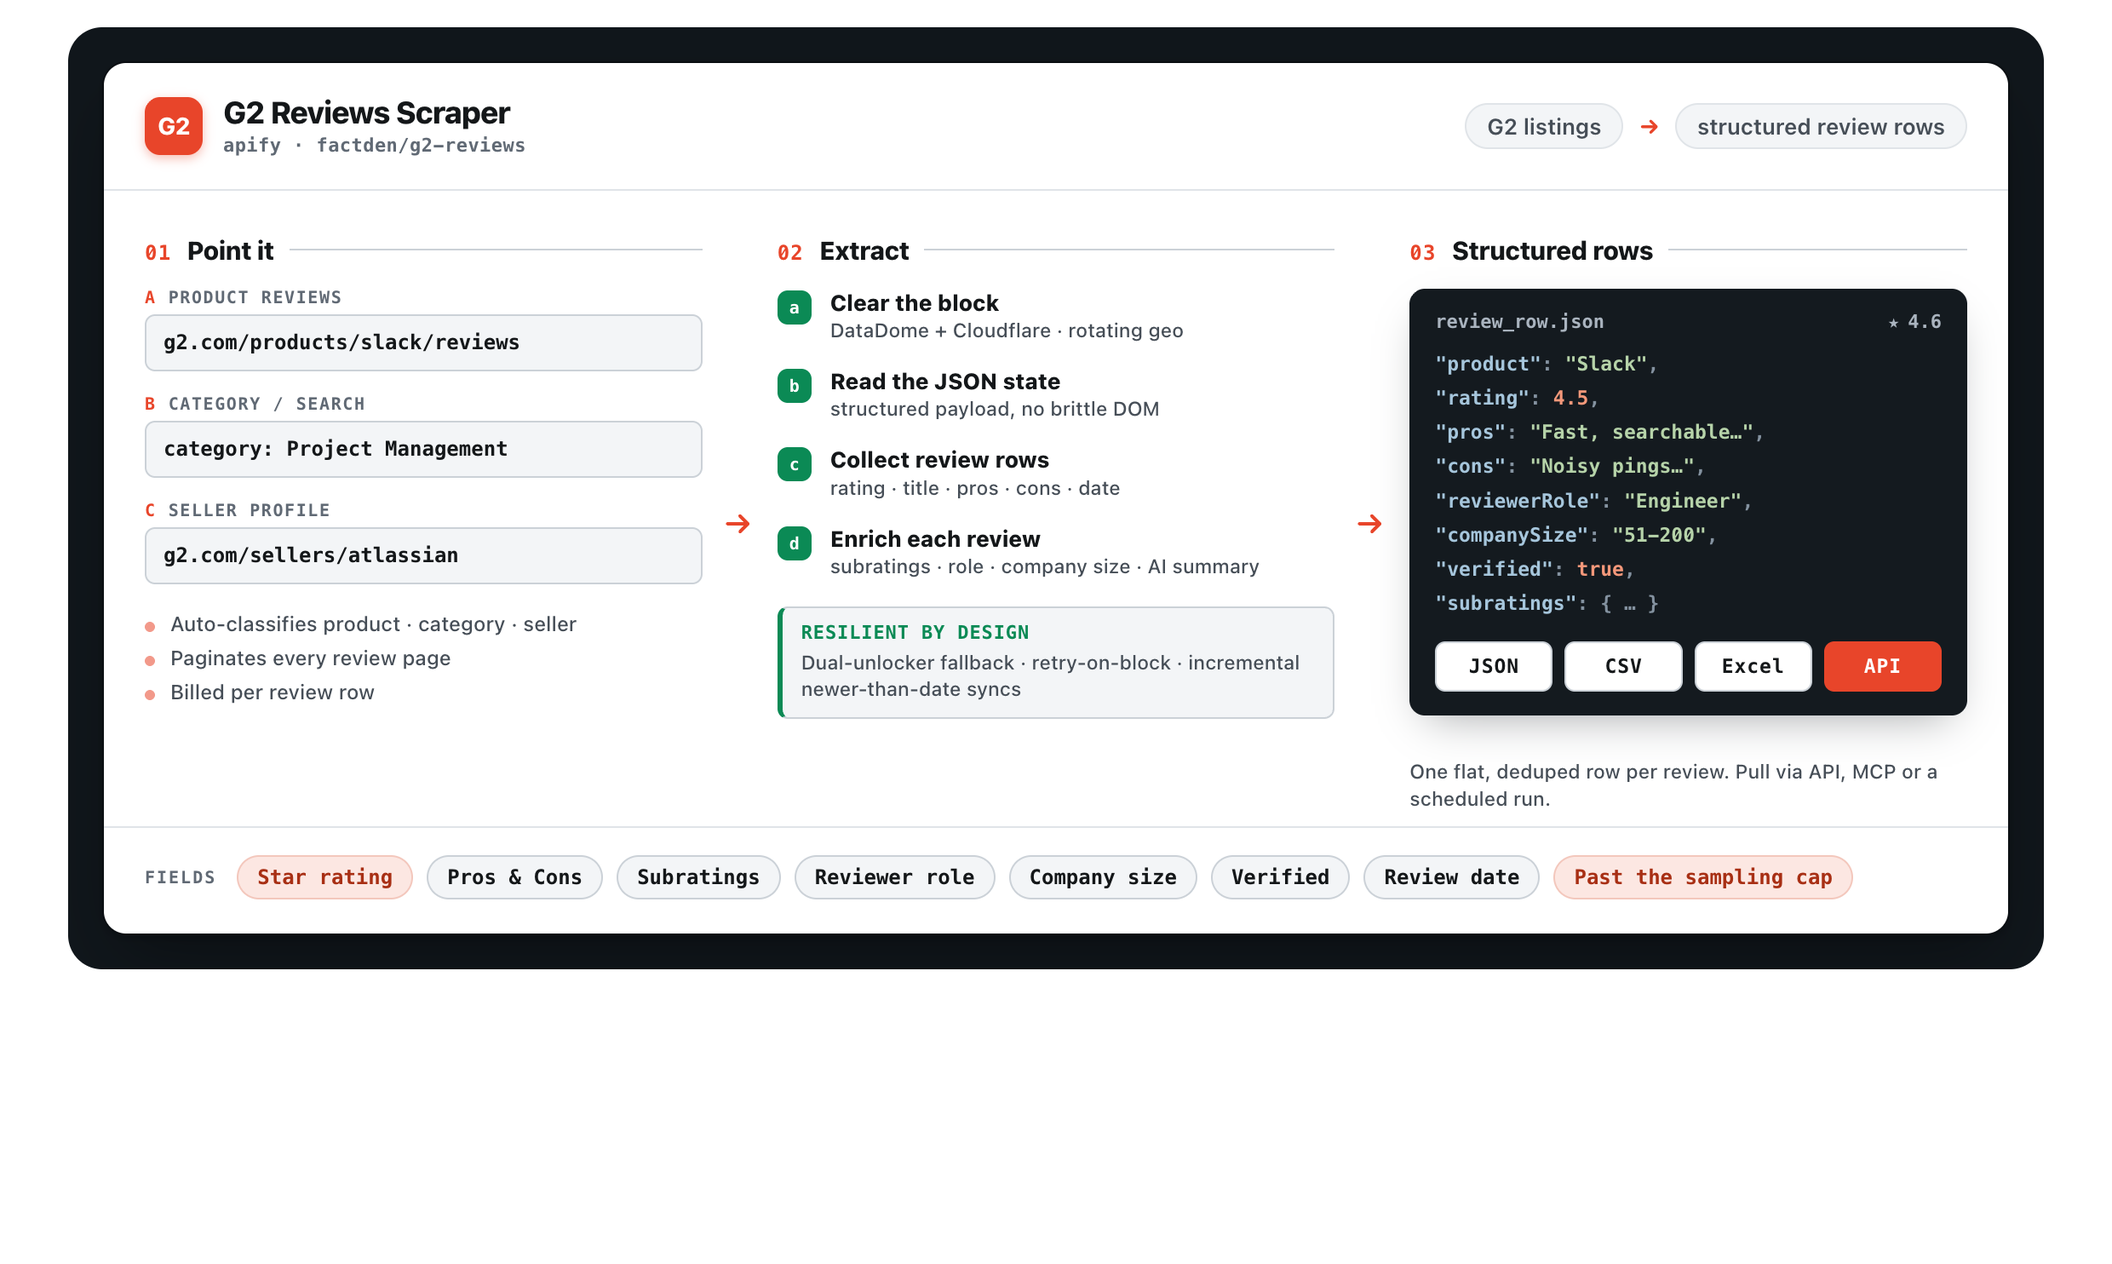
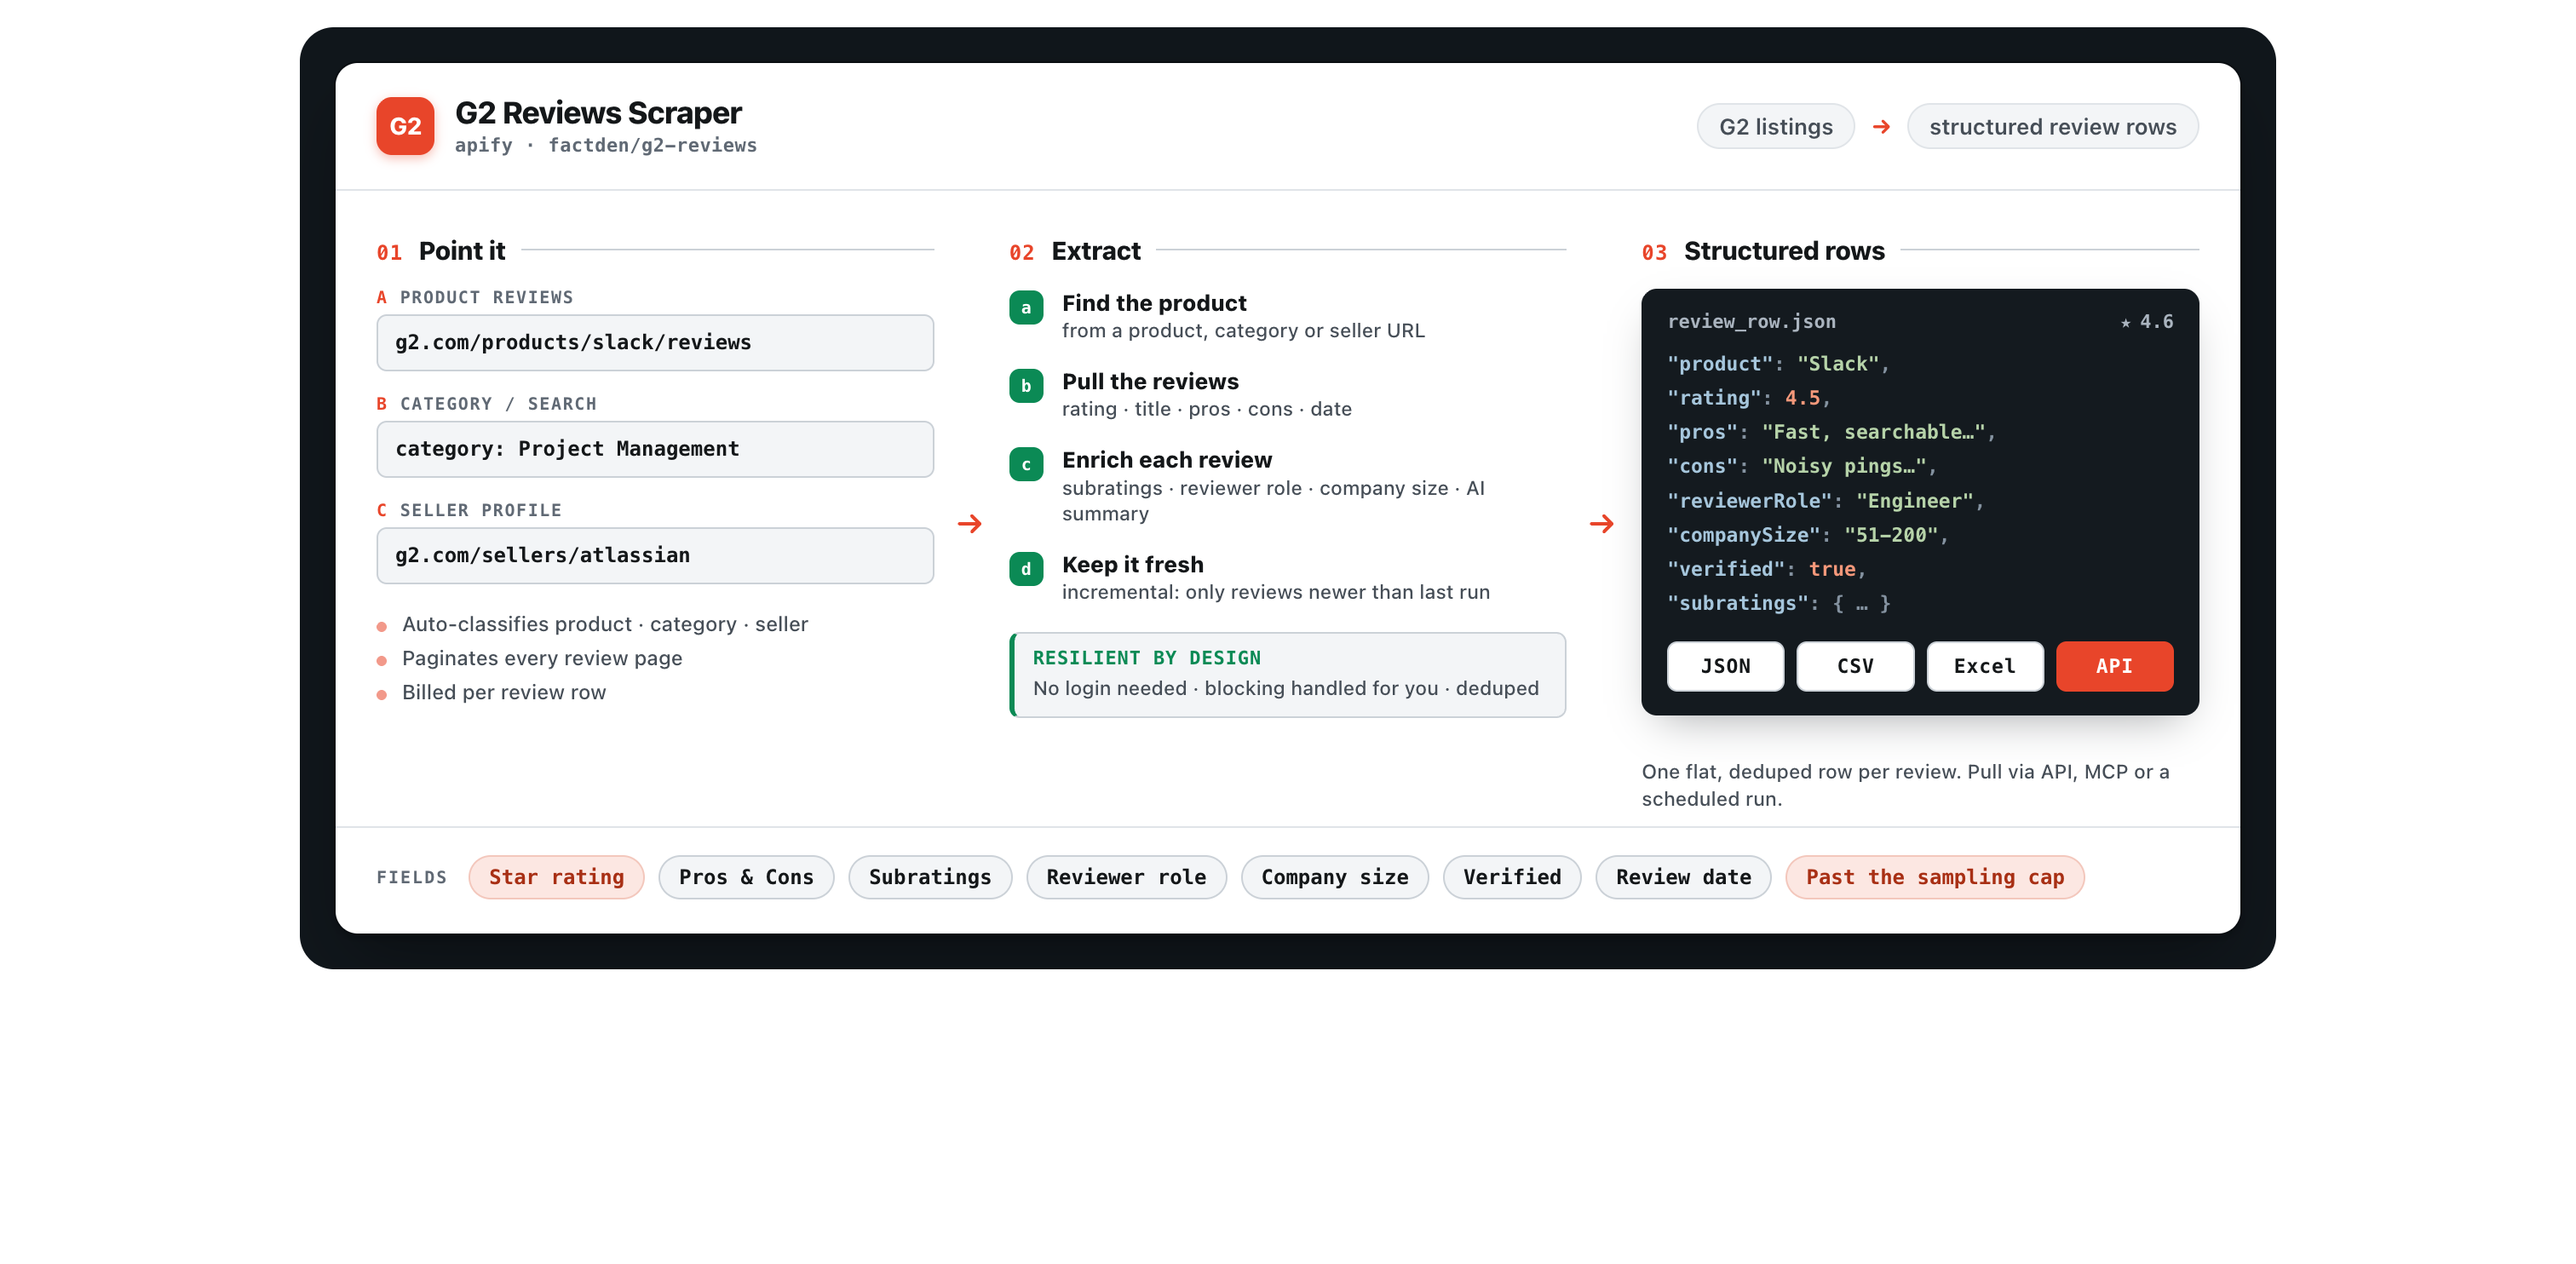
Scrub crawl-method details from all heroes; add Zomato hero (non-disclosure rule)
Stage 02 now describes the data-pipeline outcome (resolve/pull/build/discover), never the
acquisition method. Removed anti-bot stack, proxy tactics, endpoint and decoding references
from G2, Justdial and Zomato heroes. Adds the Zomato hero. Guide documents the rule.

Changed region(s): [[0.031, 0.0, 0.9935, 0.7749]]

diff --git a/zomato-restaurant-reviews-scraper/how-it-works.html b/zomato-restaurant-reviews-scraper/how-it-works.html
@@ -1,4 +1,4 @@
-<title>How It Works · Justdial Business Leads hero</title>
+<title>How It Works · Zomato Restaurant Reviews hero</title>
 <meta name="viewport" content="width=device-width, initial-scale=1">
 <style>
   :root{
@@ -120,7 +120,7 @@
 
 <div class="wrap">
   <p class="eyebrow">README hero · how it works</p>
-  <h1 class="page">"How it works": Justdial Business Leads</h1>
+  <h1 class="page">"How it works": Zomato Restaurant Reviews Scraper</h1>
   <p class="page-sub">Design source for the README hero. Locked layout: left-to-right pipeline, one coral accent, spec-sheet vernacular. Render the figure to PNG (recipe §7a) and embed at the top of the README.</p>
 
   <figure class="figure">
@@ -128,13 +128,13 @@
 
       <div class="head">
         <div class="brand">
-          <div class="mark">JD</div>
-          <div><h2>Justdial Business Leads</h2><span class="k">apify · factden/justdial-business-leads</span></div>
+          <div class="mark">Z</div>
+          <div><h2>Zomato Restaurant Reviews Scraper</h2><span class="k">apify · factden/zomato-restaurant-reviews-scraper</span></div>
         </div>
         <div class="flow-tag">
-          <span class="pill">India business listings</span>
+          <span class="pill">Zomato restaurant pages</span>
           <span class="arr">→</span>
-          <span class="pill">leads with real phone + owner</span>
+          <span class="pill">reviews + restaurant leads</span>
         </div>
       </div>
 
@@ -144,21 +144,21 @@
         <div class="stage">
           <div class="stage-h"><span class="stage-n">01</span><h3>Point it</h3><span class="tick"></span></div>
           <div class="src">
-            <div class="lbl"><b>A</b> City + category</div>
-            <div class="val">Mumbai · Restaurants</div>
+            <div class="lbl"><b>A</b> Restaurant URL or ID</div>
+            <div class="val">zomato.com/ncr/warehouse-cafe · 301605</div>
           </div>
           <div class="src">
-            <div class="lbl"><b>B</b> Whole state</div>
-            <div class="val">state: Maharashtra</div>
+            <div class="lbl"><b>B</b> Discover by city</div>
+            <div class="val">city: New Delhi · cuisine: Italian</div>
           </div>
           <div class="src">
-            <div class="lbl"><b>C</b> Or paste Justdial URLs</div>
-            <div class="val">/Mumbai/Restaurants · _BZDET</div>
+            <div class="lbl"><b>C</b> Or paste listing URLs</div>
+            <div class="val">/ncr/connaught-place-restaurants</div>
           </div>
           <div class="meta">
-            <div>Fans out subcategories + localities</div>
-            <div>Goes past the ~100-per-search cap</div>
-            <div>Discovery or Enriched mode</div>
+            <div>Reviews mode or Discovery mode</div>
+            <div>Leads-only toggle (skip reviews)</div>
+            <div>India, UAE + every Zomato market</div>
           </div>
         </div>
 
@@ -167,10 +167,10 @@
         <!-- STAGE 2 -->
         <div class="stage">
           <div class="stage-h"><span class="stage-n">02</span><h3>Extract</h3><span class="tick"></span></div>
-          <div class="step done"><span class="dot">a</span><div><div class="t">Read the listings</div><div class="d">name · rating · area · pincode · GPS</div></div></div>
-          <div class="step done"><span class="dot">b</span><div><div class="t">Fan out the market</div><div class="d">every subcategory + locality</div></div></div>
-          <div class="step done"><span class="dot">c</span><div><div class="t">Go past the cap</div><div class="d">far more than the ~100 per search, deduped</div></div></div>
-          <div class="step done"><span class="dot">d</span><div><div class="t">Enrich the lead</div><div class="d">real phone (not the virtual number) · owner · email · WhatsApp</div></div></div>
+          <div class="step done"><span class="dot">a</span><div><div class="t">Resolve the restaurant</div><div class="d">from a URL, ID or city listing</div></div></div>
+          <div class="step done"><span class="dot">b</span><div><div class="t">Pull the reviews</div><div class="d">newest-first: rating · text · reviewer · owner reply</div></div></div>
+          <div class="step done"><span class="dot">c</span><div><div class="t">Build the lead record</div><div class="d">phone · address · GPS · cuisines · cost</div></div></div>
+          <div class="step done"><span class="dot">d</span><div><div class="t">Discover the market</div><div class="d">expand a city/locality to every restaurant</div></div></div>
           <div class="guard">
             <div class="gt">Resilient by design</div>
             <div class="gd">No login needed · blocking handled for you · deduped</div>
@@ -184,18 +184,18 @@
           <div class="stage-h"><span class="stage-n">03</span><h3>Structured rows</h3><span class="tick"></span></div>
           <div class="out">
             <div class="fn">
-              <span>business_row.json</span>
-              <span class="rate"><span class="star">★</span>4.3</span>
+              <span>review_row.json</span>
+              <span class="rate"><span class="star">★</span>4.2</span>
             </div>
             <div class="json">
-              <div class="row"><span class="jk">"name"</span><span class="jp">:</span> <span class="js">"Kanchan Veg"</span><span class="jp">,</span></div>
-              <div class="row"><span class="jk">"phone"</span><span class="jp">:</span> <span class="js">"9673410606"</span><span class="jp">,</span></div>
-              <div class="row"><span class="jk">"phoneType"</span><span class="jp">:</span> <span class="js">"real"</span><span class="jp">,</span></div>
-              <div class="row"><span class="jk">"whatsapp"</span><span class="jp">:</span> <span class="js">"9673410606"</span><span class="jp">,</span></div>
-              <div class="row"><span class="jk">"contactPerson"</span><span class="jp">:</span> <span class="js">"Mr Prashad Kanchan"</span><span class="jp">,</span></div>
-              <div class="row"><span class="jk">"email"</span><span class="jp">:</span> <span class="js">"owner@…"</span><span class="jp">,</span></div>
-              <div class="row"><span class="jk">"gstNumber"</span><span class="jp">:</span> <span class="js">"27AAAC…1Z5"</span><span class="jp">,</span></div>
-              <div class="row"><span class="jk">"rating"</span><span class="jp">:</span> <span class="jn">4.3</span></div>
+              <div class="row"><span class="jk">"restaurantName"</span><span class="jp">:</span> <span class="js">"Warehouse Cafe"</span><span class="jp">,</span></div>
+              <div class="row"><span class="jk">"rating"</span><span class="jp">:</span> <span class="jn">4</span><span class="jp">,</span></div>
+              <div class="row"><span class="jk">"ratingType"</span><span class="jp">:</span> <span class="js">"DINING"</span><span class="jp">,</span></div>
+              <div class="row"><span class="jk">"reviewText"</span><span class="jp">:</span> <span class="js">"Great ambience…"</span><span class="jp">,</span></div>
+              <div class="row"><span class="jk">"reviewerName"</span><span class="jp">:</span> <span class="js">"Nitesh Mehra"</span><span class="jp">,</span></div>
+              <div class="row"><span class="jk">"ownerResponse"</span><span class="jp">:</span> <span class="js">"Thank you!"</span><span class="jp">,</span></div>
+              <div class="row"><span class="jk">"reviewDate"</span><span class="jp">:</span> <span class="js">"2026-08-30"</span><span class="jp">,</span></div>
+              <div class="row"><span class="jk">"restaurantId"</span><span class="jp">:</span> <span class="jn">301605</span></div>
             </div>
             <div class="formats">
               <div class="fmt">JSON</div>
@@ -204,21 +204,21 @@
               <div class="fmt api">API</div>
             </div>
           </div>
-          <div class="out-note">One flat, deduped row per business. Pull via API, MCP or a scheduled run.</div>
+          <div class="out-note">Reviews plus a lead record per restaurant. Pull via API, MCP or a scheduled run.</div>
         </div>
 
       </div>
 
       <div class="spec">
         <span class="cap">Fields</span>
-        <span class="chip hl">Real phone</span>
-        <span class="chip">Owner name</span>
-        <span class="chip">Email</span>
-        <span class="chip">WhatsApp</span>
-        <span class="chip">GST unmasked</span>
-        <span class="chip">Address + GPS</span>
-        <span class="chip">Rating & reviews</span>
-        <span class="chip hl">Past the 100 cap</span>
+        <span class="chip hl">Star rating /5</span>
+        <span class="chip">Full review text</span>
+        <span class="chip">Owner responses</span>
+        <span class="chip">Reviewer</span>
+        <span class="chip">Phone + address</span>
+        <span class="chip">GPS + cuisines</span>
+        <span class="chip">Cost for two</span>
+        <span class="chip hl">LLM-ready markdown</span>
       </div>
 
     </div>

diff --git a/g2-reviews-scraper/how-it-works.html b/g2-reviews-scraper/how-it-works.html
@@ -167,13 +167,13 @@
         <!-- STAGE 2 -->
         <div class="stage">
           <div class="stage-h"><span class="stage-n">02</span><h3>Extract</h3><span class="tick"></span></div>
-          <div class="step done"><span class="dot">a</span><div><div class="t">Clear the block</div><div class="d">DataDome + Cloudflare · rotating geo</div></div></div>
-          <div class="step done"><span class="dot">b</span><div><div class="t">Read the JSON state</div><div class="d">structured payload, no brittle DOM</div></div></div>
-          <div class="step done"><span class="dot">c</span><div><div class="t">Collect review rows</div><div class="d">rating · title · pros · cons · date</div></div></div>
-          <div class="step done"><span class="dot">d</span><div><div class="t">Enrich each review</div><div class="d">subratings · role · company size · AI summary</div></div></div>
+          <div class="step done"><span class="dot">a</span><div><div class="t">Find the product</div><div class="d">from a product, category or seller URL</div></div></div>
+          <div class="step done"><span class="dot">b</span><div><div class="t">Pull the reviews</div><div class="d">rating · title · pros · cons · date</div></div></div>
+          <div class="step done"><span class="dot">c</span><div><div class="t">Enrich each review</div><div class="d">subratings · reviewer role · company size · AI summary</div></div></div>
+          <div class="step done"><span class="dot">d</span><div><div class="t">Keep it fresh</div><div class="d">incremental: only reviews newer than last run</div></div></div>
           <div class="guard">
             <div class="gt">Resilient by design</div>
-            <div class="gd">Dual-unlocker fallback · retry-on-block · incremental newer-than-date syncs</div>
+            <div class="gd">No login needed · blocking handled for you · deduped</div>
           </div>
         </div>
 
